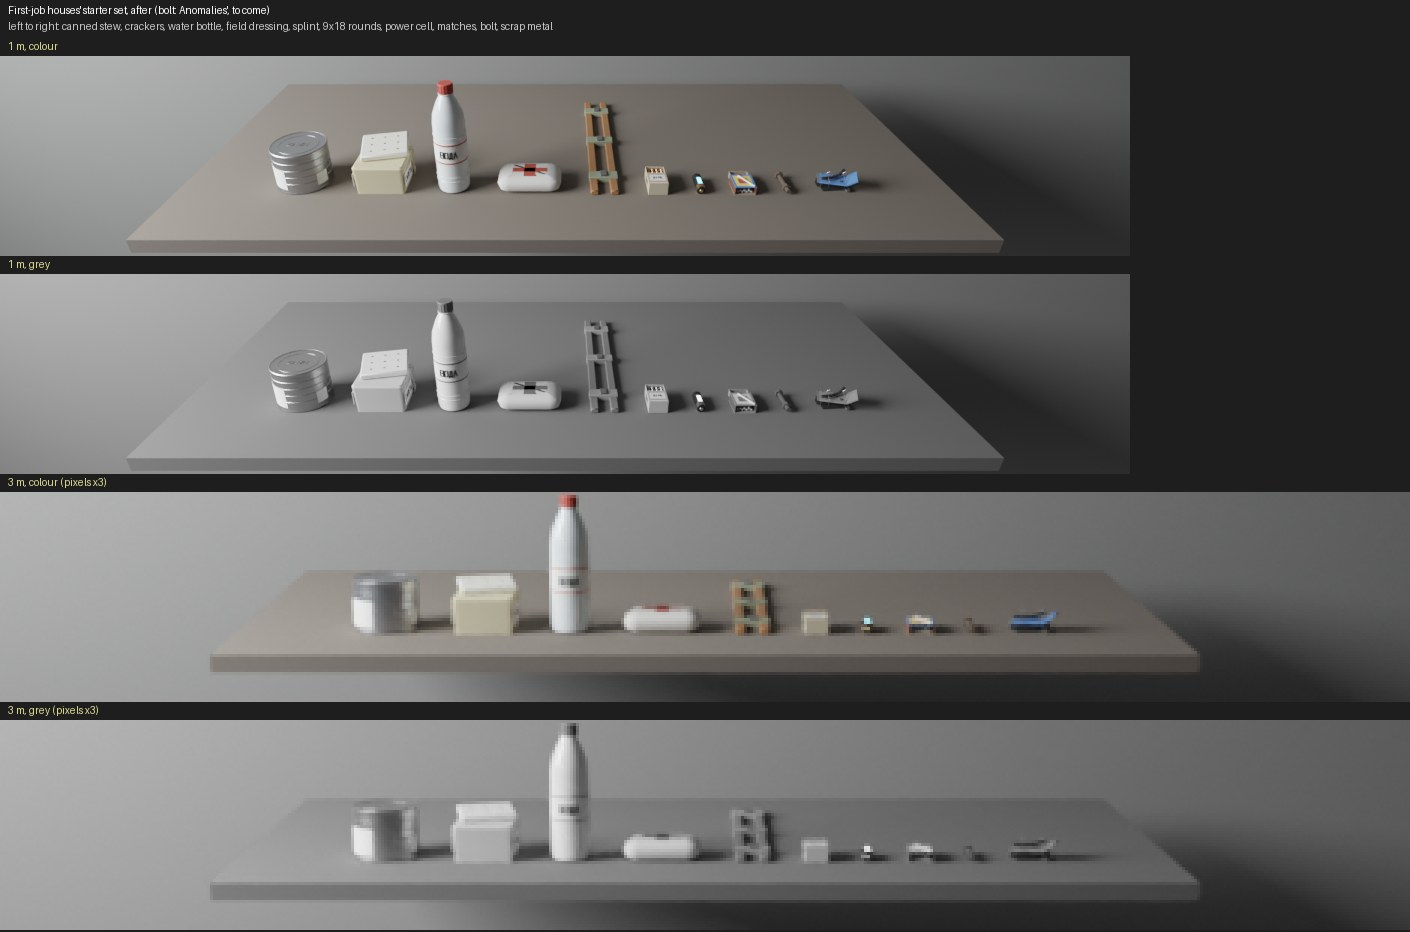
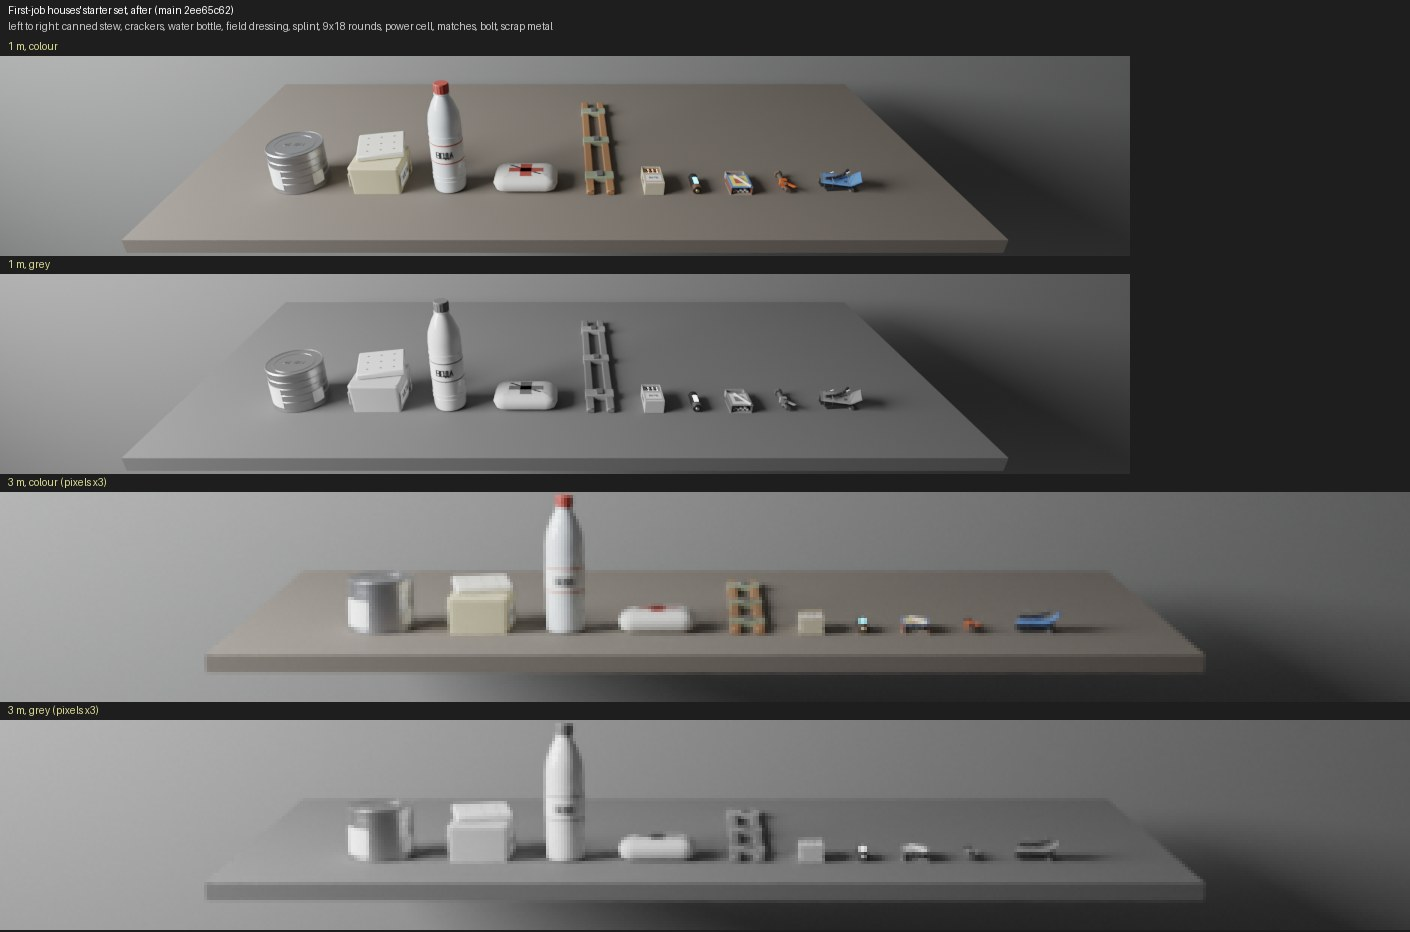
Kit: a mag pouch deep enough for the AK's curved magazine
Gunsmith's AK-74 magazine is shaped from the gun now: curved forward,
130 mm front to back over what stands in a pouch. The pouch (107 mm
deep inside) would have refused it. kit_cavities::POUCH is 134 mm deep
and 140 mm tall inside, taller than deep so slot_fit (which matches
sides by size) stands a magazine up rather than laying it on its back;
the rig's pouch is drawn to it, its back still on the chest panel.

The deeper pouch let in rpk_mag, whose box understated its model by
19 mm: 27 mm of it stood out of the pouch's side. Its dims are its
model's (0.026 x 0.27 x 0.15) and a 45-rounder now goes in the pack
(Gunsmith agreed).

Merges Gunsmith's a37d92f5 and 3bb8447f (the magazine and stock, their
boxes and the scale table) to test against. Also: art/lineup.py builds
the bolt's and detector's new looks (Anomalies'), and the readability
sheets are re-shot on main 2ee65c62.

Claude-Session: https://claude.ai/code/session_0198AqyEV42EUGMb65r3GB9u

diff --git a/art/lineup.py b/art/lineup.py
@@ -78,50 +78,63 @@ def srgb(c):
 
 def proc(name):
     """The items `src/anomaly/visuals.rs` builds in code rather than loads,
-    built the same way (game space: x right, y up, -z forward)."""
-    parts = []  # (kind, size, game position, rotated along z, colour)
+    built the same way: each part a primitive placed, turned and scaled in
+    game space (x right, y up, -z forward). Keep in step with that file."""
+    from mathutils import Matrix
+
+    def q(axis, angle):
+        return Matrix.Rotation(angle, 4, axis)
+
+    along = q("X", math.pi / 2)  # a cylinder's axis (Y) laid along Z
+    parts = []  # (kind, size, position, turn, colour)
     if name == "bolt":
-        steel = (0.36, 0.3, 0.25)
-        parts += [("cyl", (0.005, 0.06), (0, 0, 0.004), True, steel),
-                  ("hex", (0.0085, 0.007), (0, 0, -0.0315), True, steel),
-                  ("hex", (0.0085, 0.008), (0, 0, 0.018), True, steel)]
+        steel, tape = (0.36, 0.3, 0.25), (0.95, 0.36, 0.04)
+        parts += [("cyl", (0.005, 0.06), (0, 0, 0.004), along, steel),
+                  ("hex", (0.0085, 0.007), (0, 0, -0.0315), along, steel),
+                  ("hex", (0.0085, 0.008), (0, 0, 0.018), along, steel),
+                  ("box", (0.013, 0.013, 0.007), (0, 0, 0), Matrix(), tape)]
+        for side in (-1, 1):
+            parts.append(("box", (0.006, 0.0015, 0.04), (side * 0.006, 0.006, 0.019),
+                          q("Y", side * 0.35) @ q("X", -0.25), tape))
     elif name == "detector":
         olive, face, black = (0.36, 0.4, 0.24), (0.85, 0.82, 0.7), (0.04, 0.04, 0.04)
-        parts += [("box", (0.07, 0.04, 0.11), (0, 0, 0.025), False, olive),
-                  ("cyl", (0.016, 0.003), (0.012, 0.021, 0.05), False, face),
-                  ("box", (0.03, 0.004, 0.03), (-0.015, 0.021, 0.005), False, black),
-                  ("box", (0.012, 0.012, 0.09), (-0.041, 0, 0.025), False, black),
-                  ("cyl", (0.004, 0.05), (0.018, 0, -0.055), True, black),
-                  ("sph", (0.006,), (0.018, 0, -0.078), False, black),
-                  ("sph", (0.005,), (-0.02, 0.021, -0.01), False, (0.15, 0.03, 0.02))]
+        parts += [("box", (0.07, 0.04, 0.11), (0, 0, 0.025), Matrix(), olive),
+                  ("box", (0.066, 0.002, 0.104), (0, 0.0205, 0.025), Matrix(), (0.93, 0.8, 0.25)),
+                  ("cyl", (0.016, 0.003), (0.012, 0.021, 0.05), Matrix(), face),
+                  ("box", (0.03, 0.004, 0.03), (-0.015, 0.021, 0.005), Matrix(), black),
+                  ("box", (0.012, 0.012, 0.09), (-0.041, 0, 0.025), Matrix(), black),
+                  ("cyl", (0.004, 0.05), (0.018, 0, -0.055), along, black),
+                  ("sph", (0.006,), (0.018, 0, -0.078), Matrix(), black),
+                  ("sph", (0.005,), (-0.02, 0.021, -0.01), Matrix(), (0.15, 0.03, 0.02))]
     else:
         raise SystemExit(f"no procedural look for {name}")
+    # Game space to Blender's: (x, y, z) -> (x, -z, y).
+    C = Matrix(((1, 0, 0, 0), (0, 0, -1, 0), (0, 1, 0, 0), (0, 0, 0, 1)))
     root = bpy.data.objects.new("item_" + name, None)
     scene.collection.objects.link(root)
-    for kind, size, at, along, col in parts:
-        loc = (at[0], -at[2], at[1])
+    for kind, size, at, turn, col in parts:
         if kind == "box":
-            bpy.ops.mesh.primitive_cube_add(size=1, location=loc)
-            o = bpy.context.object
-            o.scale = (size[0], size[2], size[1])
+            bpy.ops.mesh.primitive_cube_add(size=1)
+            scale = Matrix.Diagonal((*size, 1))
         elif kind in ("cyl", "hex"):
+            # Bevy's cylinders stand along their Y; Blender's along Z: made
+            # unit along Blender Z, which is game Y once turned back below.
+            bpy.ops.mesh.primitive_cylinder_add(vertices=6 if kind == "hex" else 16, radius=1,
+                                                depth=1)
             r, h = size
-            bpy.ops.mesh.primitive_cylinder_add(vertices=6 if kind == "hex" else 16, radius=r,
-                                                depth=h, location=loc)
-            o = bpy.context.object
-            # Bevy's cylinders stand along y (Blender z); `along` lays them
-            # along game z (Blender -y).
-            if along:
-                o.rotation_euler = (math.pi / 2, 0, 0)
+            scale = Matrix.Diagonal((r, h, r, 1))
         else:
-            bpy.ops.mesh.primitive_uv_sphere_add(radius=size[0], location=loc, segments=12,
-                                                 ring_count=8)
-            o = bpy.context.object
+            bpy.ops.mesh.primitive_uv_sphere_add(radius=1, segments=12, ring_count=8)
+            scale = Matrix.Diagonal((size[0],) * 3 + (1,))
+        o = bpy.context.object
+        game = Matrix.Translation(at) @ turn @ scale
+        o.matrix_world = C @ game @ C.inverted()
         m = bpy.data.materials.new(name)
         m.use_nodes = True
         m.node_tree.nodes["Principled BSDF"].inputs["Base Color"].default_value = (*srgb(col), 1)
         o.data.materials.append(m)
         o.parent = root
+        o.matrix_parent_inverse = root.matrix_world.inverted()
     bpy.context.view_layer.update()
     lo = Vector((1e9, 1e9, 1e9))
     hi = Vector((-1e9, -1e9, -1e9))

diff --git a/art/kit/rig.py b/art/kit/rig.py
@@ -190,9 +190,10 @@ def holster_flap(open_):
 # --- Pouches ---------------------------------------------------------------
 
 # A magazine stands in it centred on its cavity (`src/kit_cavities.rs`,
-# POUCH): an AK's is 0.026 x 0.2 x 0.104 with its curve.
-PH = (-0.108, 0.025)  # bottom, mouth (slot y)
-PZ = -0.063  # its front (slot z); its back is on the chest panel
+# POUCH): an AK-74's curves forward, 130 mm front to back over what's in
+# the pouch (Gunsmith's, shaped from the gun). Deep enough for that.
+PH = (-0.118, 0.025)  # bottom, mouth (slot y)
+PZ = -0.090  # its front (slot z); its back is on the chest panel
 
 
 def pouch():
@@ -200,7 +201,8 @@ def pouch():
     prof = fillet([(PZ, PH[0]), (0.05, PH[0]), (0.05, PH[1]), (PZ, PH[1])], 0.008, 2)
     p.prism(prof, -0.021, 0.021, "Canvas", axis="x", bevel=0.005, segs=2)
     # A band of webbing round it, and a seam down its front.
-    p.box((0.052, 0.016, 0.122), (0.0, -0.07, -0.0065), "Olive", bevel=0.002, segs=1)
+    p.box((0.052, 0.016, 0.05 - PZ + 0.002), (0.0, -0.07, (0.05 + PZ) / 2), "Olive", bevel=0.002,
+          segs=1)
     p.box((0.003, 0.11, 0.004), (0.0, -0.04, PZ - 0.0015), "Canvas", bevel=0.001, segs=1)
     return p
 
@@ -208,7 +210,8 @@ def pouch():
 def pouch_flap(open_):
     p = Part("pouch_flap_open" if open_ else "pouch_flap_closed")
     if not open_:
-        p.box((0.046, 0.006, 0.116), (0.0, PH[1] + 0.0025, -0.0065), "Canvas", bevel=0.002, segs=1)
+        p.box((0.046, 0.006, 0.05 - PZ - 0.004), (0.0, PH[1] + 0.0025, (0.05 + PZ) / 2), "Canvas",
+              bevel=0.002, segs=1)
         p.box((0.044, 0.04, 0.006), (0.0, PH[1] - 0.016, PZ - 0.004), "Canvas", bevel=0.002, segs=1)
         p.cyl(0.004, 0.0, 0.003, "Iron", segs=10, xf=T(0.0, PH[1] - 0.026, PZ - 0.0075) @ RX(math.pi))
     else:

diff --git a/src/kit_cavities.rs b/src/kit_cavities.rs
@@ -26,10 +26,13 @@ impl Cavity {
     }
 }
 
-/// A chest pouch: a magazine stands in it, thin side across X.
+/// A chest pouch: a magazine stands in it, thin side across X; deep
+/// enough for an AK-74 magazine's curve (130 mm front to back), and
+/// taller than deep, so a magazine stands in it (`slot_fit` matches sides
+/// by size).
 pub const POUCH: Cavity = Cavity {
-    floor: Vec3::new(0.0, -0.105, -0.0065),
-    half: Vec3::new(0.018, 0.065, 0.0535),
+    floor: Vec3::new(0.0, -0.115, -0.02),
+    half: Vec3::new(0.018, 0.07, 0.067),
 };
 
 /// A hip pocket: rounds, a clip, a cell.

diff --git a/docs/craft/ITEM_READING.md b/docs/craft/ITEM_READING.md
@@ -171,5 +171,12 @@ camera:
   with a bright end beside the magazine's tall dark one: they read apart
   at 3 m in grey too. A dropped cell comes to rest lying down
   (`vr_harness::tests::a_dropped_cell_comes_to_rest_lying_down`).
-- **Bolt, detector**: built in `src/anomaly/visuals.rs`; asked Anomalies
-  (the bolt: orange flagging tape; the detector: a signal-yellow face).
+- **Bolt** (Anomalies', `src/anomaly/visuals.rs`): orange flagging tape
+  knotted round it, tails trailing. At 3 m an orange fleck in colour;
+  in grey it's still tiny. It's found by colour, which is what a thrown
+  bolt in grass needs; its size stays as it is.
+- **Detector** (Anomalies'): a signal-yellow face plate on the survey
+  sets. No longer the radio's twin, in colour or grey.
+
+Sheets re-shot on main 2ee65c62 (the same camera, `art/lineup.py` now
+building the bolt's and detector's new looks as the game does).
